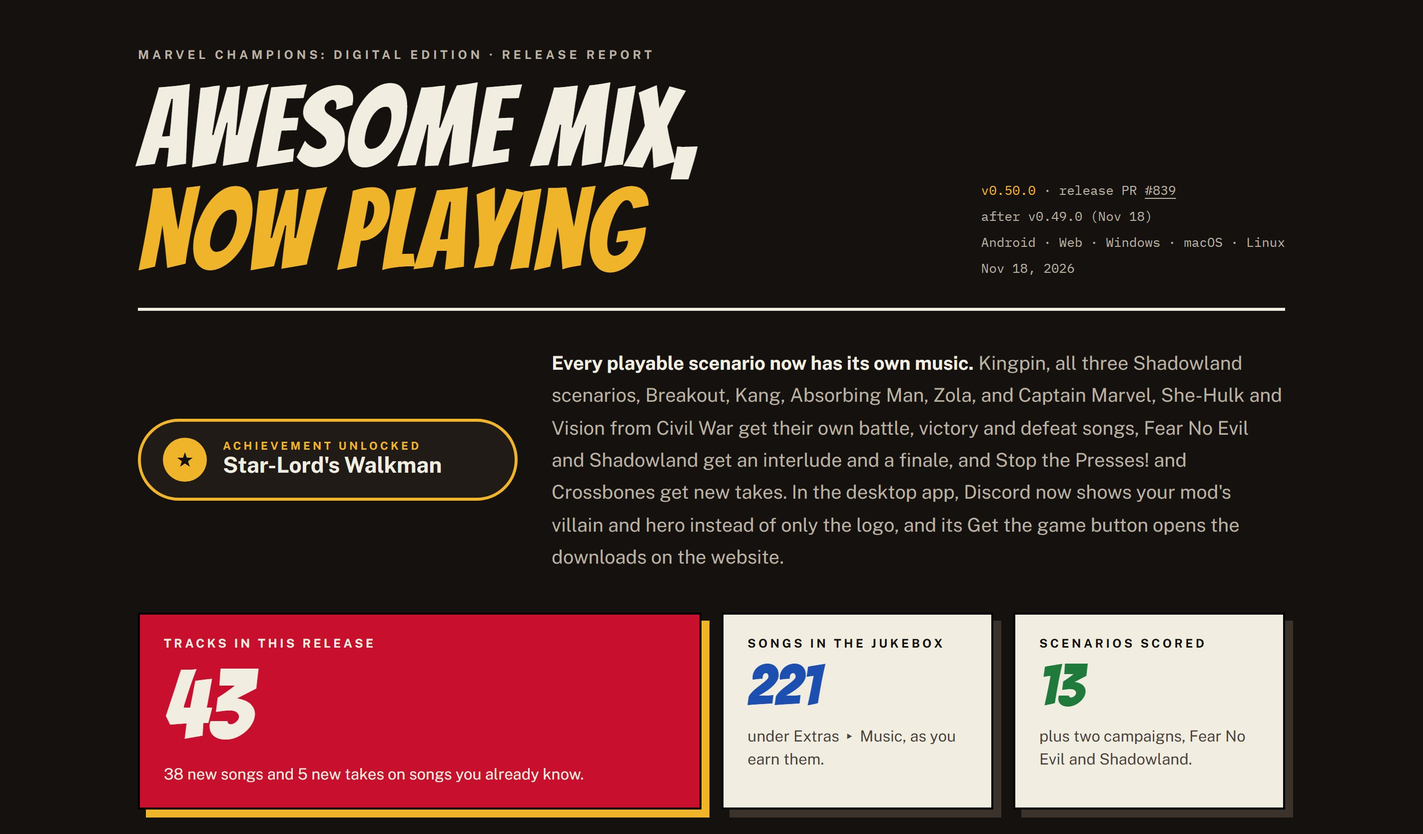
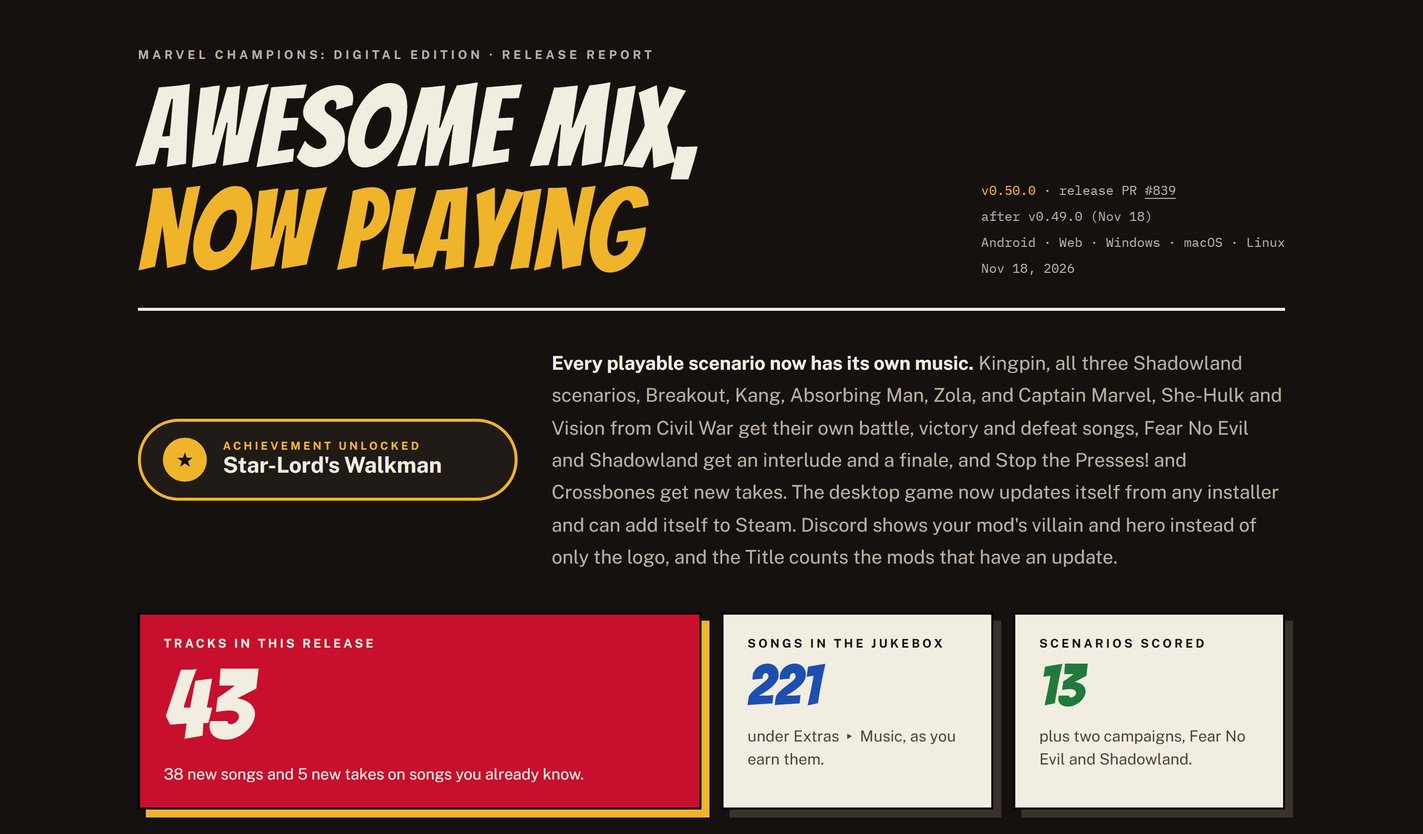
Add the in-game updater, Add to Steam and the mod update badge to the v0.50.0 report

Changed region(s): [[0.375, 0.5608, 0.875, 0.6854]]

diff --git a/packages/client/public/releases/v0.50.0/index.html b/packages/client/public/releases/v0.50.0/index.html
@@ -658,8 +658,8 @@
           <b>Every playable scenario now has its own music.</b> Kingpin, all three Shadowland scenarios, Breakout, Kang,
           Absorbing Man, Zola, and Captain Marvel, She-Hulk and Vision from Civil War get their own battle, victory and
           defeat songs, Fear No Evil and Shadowland get an interlude and a finale, and Stop the Presses! and Crossbones
-          get new takes. In the desktop app, Discord now shows your mod's villain and hero instead of only the logo, and
-          its Get the game button opens the downloads on the website.
+          get new takes. The desktop game now updates itself from any installer and can add itself to Steam. Discord
+          shows your mod's villain and hero instead of only the logo, and the Title counts the mods that have an update.
         </p>
       </section>
 
@@ -796,10 +796,111 @@
         </div>
       </div>
 
+      <!-- ============ UPDATER ============ -->
+      <div class="band gold">
+        <h2>Updates that install themselves</h2>
+        <div class="lab">Issues #843, #844 · PRs #847, #850</div>
+      </div>
+      <div class="pill feat">
+        <div class="star">★</div>
+        <div><small>Achievement unlocked</small><span>Quicksilver Delivery</span></div>
+      </div>
+      <p class="lead">
+        <b>The desktop game now updates itself, whichever installer you used.</b> When a new release is out, the Title's
+        update banner offers <b>Update</b>. The game downloads it in the background while you keep playing, tells you
+        when it's ready, and <b>Restart</b> puts you on the new version.
+      </p>
+      <div class="box">
+        <p>
+          <b>Heads up:</b> Update shows when a release newer than yours is out. v0.50.0 itself is still a download from
+          the website, and the release after it is the first one the game installs for you.
+        </p>
+      </div>
+      <div class="shots s2" style="margin-top: 24px">
+        <figure class="a">
+          <img
+            src="img/updater-ready.webp"
+            alt="The Title with The game has been updated: Restart to apply the new version, with Restart now and Later"
+            width="1280"
+            height="800"
+            loading="lazy"
+          />
+          <figcaption>The download is ready (999.0.0 is a test build's stand-in version)</figcaption>
+        </figure>
+        <figure class="a">
+          <img
+            src="img/updater-restart.webp"
+            alt="The Title's banner after Later: The game has been updated, Restart to apply the new version, with a Restart button"
+            width="1280"
+            height="800"
+            loading="lazy"
+          />
+          <figcaption>Pick Later and the Title keeps a Restart banner</figcaption>
+        </figure>
+      </div>
+      <div class="cols">
+        <div class="box">
+          <h3>Each installer, its own way</h3>
+          <ul class="ck">
+            <li>
+              <b>Windows:</b> the Setup .exe installs quietly and starts the game again. The .msi asks for an
+              administrator's permission first.
+            </li>
+            <li>
+              <b>Mac:</b> the new app is swapped in for the old one in a single step, on disks that allow it (APFS).
+            </li>
+            <li>
+              <b>Linux:</b> the AppImage is replaced where you keep it. A .deb or .rpm asks for an administrator's
+              password.
+            </li>
+            <li>
+              Every download is checked against the checksum GitHub lists before the game closes. If the install fails,
+              your old game starts again and the Title says so.
+            </li>
+            <li>Android and Steam script installs update the way they did before.</li>
+          </ul>
+        </div>
+        <div class="box">
+          <h3>Add to Steam</h3>
+          <p>
+            <b>Settings ▸ More ▸ Add to Steam</b> puts the game you have in your Steam library with its art, to play
+            from Steam and Big Picture. It runs the Install for Steam script in the background, without downloading
+            anything.
+          </p>
+          <p>
+            Steam is closed while its library is updated, and the panel tells you first. The row only shows when Steam
+            is installed and the game isn't in it yet, and on Linux it's for the AppImage. After that, updates go
+            through the Steam script.
+          </p>
+        </div>
+      </div>
+      <div class="shots s2" style="margin-top: 24px; max-width: 760px">
+        <figure class="a">
+          <img
+            src="img/steam-add-row.webp"
+            alt="Settings, the More tab, with the Add to Steam row and its Add button"
+            width="644"
+            height="872"
+            loading="lazy"
+          />
+          <figcaption>Settings ▸ More</figcaption>
+        </figure>
+        <figure class="a">
+          <img
+            src="img/steam-add-done.webp"
+            alt="Added to Steam: Start Steam, Marvel Champions Digital Edition is in your library"
+            width="644"
+            height="872"
+            loading="lazy"
+          />
+          <figcaption>Added to Steam</figcaption>
+        </figure>
+      </div>
+
       <!-- ============ DISCORD ============ -->
       <div class="band">
-        <h2>Your mods, on Discord</h2>
-        <div class="lab">Issue #840 · PR #841</div>
+        <h2>Your mods, on Discord and the Title</h2>
+        <div class="lab">Issues #840, #845 · PRs #841, #855</div>
       </div>
       <div class="pill feat">
         <div class="star">★</div>
@@ -870,6 +971,28 @@
             />
           </div>
           <figcaption>Gwenpool and Mephisto, from the Mod Store</figcaption>
+        </figure>
+      </div>
+
+      <div class="cols" style="margin-top: 24px; align-items: center">
+        <div class="box">
+          <h3>Updates for your mods</h3>
+          <p>
+            When a pack you installed has a newer version in the Mod Store, the Title's <b>Mod Store</b> button and its
+            storefront icon show a red badge with how many packs have an update. Update them in the store and the badge
+            clears.
+          </p>
+          <p>Issue #845 · PR #855</p>
+        </div>
+        <figure class="a">
+          <img
+            src="img/mod-update-badge.webp"
+            alt="The Title with a red 2 on the Mod Store button and on the storefront icon in the top row"
+            width="1280"
+            height="996"
+            loading="lazy"
+          />
+          <figcaption>Two installed packs with an update</figcaption>
         </figure>
       </div>
 
@@ -946,22 +1069,22 @@
       <section class="stats" aria-label="Code shipped since v0.49.0">
         <div class="tile">
           <h4>Pull requests</h4>
-          <div class="n">9</div>
+          <div class="n">12</div>
           <p>merged into main.</p>
         </div>
         <div class="tile">
           <h4>Files changed</h4>
-          <div class="n">75</div>
-          <p>across the client, the music and this report.</p>
+          <div class="n">121</div>
+          <p>across the client, the desktop app, the music and this report.</p>
         </div>
         <div class="tile">
           <h4>Lines added</h4>
-          <div class="n c-green">2,655</div>
-          <p>the Discord work, its tests, and this report.</p>
+          <div class="n c-green">5,890</div>
+          <p>the updater, Add to Steam, the Discord work, their tests and this report.</p>
         </div>
         <div class="tile">
           <h4>Lines removed</h4>
-          <div class="n c-red">845</div>
+          <div class="n c-red">960</div>
           <p>across the same pull requests.</p>
         </div>
       </section>

diff --git a/docs/screenshots/releases/v0.50.0/github-release-body.md b/docs/screenshots/releases/v0.50.0/github-release-body.md
@@ -1,22 +1,24 @@
 ## Awesome Mix, Now Playing
 
-Every playable scenario now has its own music. Kingpin, all three Shadowland scenarios (Shadows in the Night, Shadow Labyrinth and Heart of Shadow), Breakout, Kang, Absorbing Man, Zola, and Civil War's Captain Marvel, She-Hulk and Vision get their own battle, victory and defeat music, Fear No Evil and Shadowland get a campaign interlude and finale, and Stop the Presses! and Crossbones get new takes: 43 tracks in all, 38 of them new (#848, #849, #852, #854). In the desktop app, Discord Rich Presence now shows a Mod Store pack's own villain and hero instead of only the game's logo, and its Get the game button opens the downloads on the website (#840, #841). On a computer, the website's top now offers the Steam script beside the download (#842, #846). Thank you to Patatasaurio, Neptune (Typhon00) and PermaKarma, whose Gwenpool, Mephisto, Carnage and The Punisher packs it was checked with, and to every Mod Store creator. Thank you for playing!
+Every playable scenario now has its own music. Kingpin, all three Shadowland scenarios (Shadows in the Night, Shadow Labyrinth and Heart of Shadow), Breakout, Kang, Absorbing Man, Zola, and Civil War's Captain Marvel, She-Hulk and Vision get their own battle, victory and defeat music, Fear No Evil and Shadowland get a campaign interlude and finale, and Stop the Presses! and Crossbones get new takes: 43 tracks in all, 38 of them new (#848, #849, #852, #854). The desktop game now updates itself from inside the game, whichever installer you used: Update downloads the new release in the background and Restart puts you on it, starting with the release after this one (#843, #847). Settings ▸ More ▸ Add to Steam puts the game in your Steam library with its art (#844, #850). In the desktop app, Discord Rich Presence now shows a Mod Store pack's own villain and hero instead of only the game's logo, and its Get the game button opens the downloads on the website (#840, #841), and the Title's Mod Store button counts the installed packs that have an update (#845, #855). On a computer, the website's top now offers the Steam script beside the download (#842, #846). Thank you to Patatasaurio, Neptune (Typhon00) and PermaKarma, whose Gwenpool, Mephisto, Carnage and The Punisher packs it was checked with, and to every Mod Store creator. Thank you for playing!
 
-**[Read the full v0.50.0 report on the site ↗](https://champions-digital-game.com/releases/v0.50.0/)**: the new music scenario by scenario, where you'll hear it, your mods on Discord, the new downloads link, the Steam script button on the website and the thank-you wall.
+**[Read the full v0.50.0 report on the site ↗](https://champions-digital-game.com/releases/v0.50.0/)**: the new music scenario by scenario, where you'll hear it, updates that install themselves, Add to Steam, your mods on Discord, the mod update badge, the new downloads link, the Steam script button on the website and the thank-you wall.
 
 **[Lee el informe completo en español ↗](https://champions-digital-game.com/releases/v0.50.0/index.es.html)**
 
-![The numbers: 43 tracks in this release, 221 songs in the jukebox and 13 scenarios scored](https://raw.githubusercontent.com/quincarter/marvel-champions-digital-game/ce05bf75b04258c8956fc483d8ff42ea57848614/docs/screenshots/releases/v0.50.0/v0-50-0-release-01-the-numbers.jpg)
+![The numbers: 43 tracks in this release, 221 songs in the jukebox and 13 scenarios scored](https://raw.githubusercontent.com/quincarter/marvel-champions-digital-game/0000000000000000000000000000000000000000/docs/screenshots/releases/v0.50.0/v0-50-0-release-01-the-numbers.jpg)
 
-![Every scenario has a soundtrack: the jukebox playing Kingpin's battle track, on desktop and phone, and every new track by scenario, Civil War included](https://raw.githubusercontent.com/quincarter/marvel-champions-digital-game/ce05bf75b04258c8956fc483d8ff42ea57848614/docs/screenshots/releases/v0.50.0/v0-50-0-release-02-every-scenario-has-a-soundtrack.jpg)
+![Every scenario has a soundtrack: the jukebox playing Kingpin's battle track, on desktop and phone, and every new track by scenario, Civil War included](https://raw.githubusercontent.com/quincarter/marvel-champions-digital-game/0000000000000000000000000000000000000000/docs/screenshots/releases/v0.50.0/v0-50-0-release-02-every-scenario-has-a-soundtrack.jpg)
 
-![Your mods, on Discord: Carnage vs The Punisher in Discord, the website's downloads that Get the game opens, and Gwenpool and Mephisto from the Mod Store](https://raw.githubusercontent.com/quincarter/marvel-champions-digital-game/ce05bf75b04258c8956fc483d8ff42ea57848614/docs/screenshots/releases/v0.50.0/v0-50-0-release-03-your-mods-on-discord.jpg)
+![Updates that install themselves: The game has been updated with Restart now, the Restart banner, how each installer updates, and Settings ▸ More ▸ Add to Steam](https://raw.githubusercontent.com/quincarter/marvel-champions-digital-game/0000000000000000000000000000000000000000/docs/screenshots/releases/v0.50.0/v0-50-0-release-03-updates-that-install-themselves.jpg)
 
-![Also in v0.50.0: Discord posts link to the website's downloads, and the website's Steam script button](https://raw.githubusercontent.com/quincarter/marvel-champions-digital-game/ce05bf75b04258c8956fc483d8ff42ea57848614/docs/screenshots/releases/v0.50.0/v0-50-0-release-04-also-in-v0-50-0.jpg)
+![Your mods, on Discord and the Title: Carnage vs The Punisher in Discord, the website's downloads that Get the game opens, Gwenpool and Mephisto from the Mod Store, and the Mod Store button's update badge](https://raw.githubusercontent.com/quincarter/marvel-champions-digital-game/0000000000000000000000000000000000000000/docs/screenshots/releases/v0.50.0/v0-50-0-release-04-your-mods-on-discord-and-the-title.jpg)
 
-![Thank you to Patatasaurio, Neptune (Typhon00), PermaKarma and every Mod Store creator](https://raw.githubusercontent.com/quincarter/marvel-champions-digital-game/ce05bf75b04258c8956fc483d8ff42ea57848614/docs/screenshots/releases/v0.50.0/v0-50-0-release-05-thank-you.jpg)
+![Also in v0.50.0: Discord posts link to the website's downloads, and the website's Steam script button](https://raw.githubusercontent.com/quincarter/marvel-champions-digital-game/0000000000000000000000000000000000000000/docs/screenshots/releases/v0.50.0/v0-50-0-release-05-also-in-v0-50-0.jpg)
 
-![Code shipped since v0.49.0](https://raw.githubusercontent.com/quincarter/marvel-champions-digital-game/ce05bf75b04258c8956fc483d8ff42ea57848614/docs/screenshots/releases/v0.50.0/v0-50-0-release-06-code-shipped.jpg)
+![Thank you to Patatasaurio, Neptune (Typhon00), PermaKarma and every Mod Store creator](https://raw.githubusercontent.com/quincarter/marvel-champions-digital-game/0000000000000000000000000000000000000000/docs/screenshots/releases/v0.50.0/v0-50-0-release-06-thank-you.jpg)
+
+![Code shipped since v0.49.0](https://raw.githubusercontent.com/quincarter/marvel-champions-digital-game/0000000000000000000000000000000000000000/docs/screenshots/releases/v0.50.0/v0-50-0-release-07-code-shipped.jpg)
 
 ---
 
@@ -24,7 +26,10 @@ Every playable scenario now has its own music. Kingpin, all three Shadowland sce
 
 ### Added
 
+- The title screen's Mod Store button and storefront icon show how many installed mod packs have an update (#845).
 - The landing page's hero offers the Install for Steam script beside the download on a computer the release has one for, and the top bar does too on wide screens (#842).
+- A desktop game installed from the release's Windows .exe or .msi, Mac app or Linux AppImage updates itself from the update banner: it downloads in the background, says the game has been updated, and restarts into the new version (#843).
+- The desktop game has an Add to Steam button under Settings ▸ More: it runs the Install for Steam script on the game as it is and puts it in your Steam library with its art, and only shows when Steam is installed and the game isn't in it yet (#844).
 - The v0.50.0 release report has its own page on the site, at /releases/v0.50.0/
 
 ### Changed

diff --git a/docs/releases/es/v0.50.0.md b/docs/releases/es/v0.50.0.md
@@ -1,24 +1,29 @@
 ## Awesome Mix, sonando ahora
 
-Cada escenario jugable tiene ahora su propia música. Kingpin, los tres escenarios de Shadowland (Shadows in the Night, Shadow Labyrinth y Heart of Shadow), Breakout, Kang, Absorbing Man, Zola, y Captain Marvel, She-Hulk y Vision de Civil War tienen su propia música de batalla, de victoria y de derrota, Fear No Evil y Shadowland tienen un interludio y un final de campaña, y Stop the Presses! y Crossbones estrenan nuevas versiones: 43 temas en total, 38 de ellos nuevos (#848, #849, #852, #854). En la app de escritorio, la Rich Presence de Discord muestra ahora el villano y el héroe del propio paquete de la Mod Store en vez de solo el logo del juego, y su botón Get the game abre las descargas en el sitio web (#840, #841). En una computadora, la parte superior del sitio web ofrece ahora el script de Steam junto a la descarga (#842, #846). Gracias a Patatasaurio, a Neptune (Typhon00) y a PermaKarma, con cuyos paquetes de Gwenpool, Mephisto, Carnage y The Punisher se comprobó, y a cada creador de la Mod Store. ¡Gracias por jugar!
+Cada escenario jugable tiene ahora su propia música. Kingpin, los tres escenarios de Shadowland (Shadows in the Night, Shadow Labyrinth y Heart of Shadow), Breakout, Kang, Absorbing Man, Zola, y Captain Marvel, She-Hulk y Vision de Civil War tienen su propia música de batalla, de victoria y de derrota, Fear No Evil y Shadowland tienen un interludio y un final de campaña, y Stop the Presses! y Crossbones estrenan nuevas versiones: 43 temas en total, 38 de ellos nuevos (#848, #849, #852, #854). El juego de escritorio ahora se actualiza solo desde el propio juego, sea cual sea el instalador que usaste: Update descarga la versión nueva en segundo plano y Restart te pone en ella, a partir de la versión siguiente a esta (#843, #847). Settings ▸ More ▸ Add to Steam pone el juego en tu biblioteca de Steam con su arte (#844, #850). En la app de escritorio, la Rich Presence de Discord muestra ahora el villano y el héroe del propio paquete de la Mod Store en vez de solo el logo del juego, y su botón Get the game abre las descargas en el sitio web (#840, #841), y el botón Mod Store del Title cuenta los paquetes instalados que tienen una actualización (#845, #855). En una computadora, la parte superior del sitio web ofrece ahora el script de Steam junto a la descarga (#842, #846). Gracias a Patatasaurio, a Neptune (Typhon00) y a PermaKarma, con cuyos paquetes de Gwenpool, Mephisto, Carnage y The Punisher se comprobó, y a cada creador de la Mod Store. ¡Gracias por jugar!
 
-![Los números: 43 temas en esta versión, 221 canciones en la gramola y 13 escenarios con música](https://raw.githubusercontent.com/quincarter/marvel-champions-digital-game/ce05bf75b04258c8956fc483d8ff42ea57848614/docs/screenshots/releases/v0.50.0/v0-50-0-release-01-the-numbers.jpg)
+![Los números: 43 temas en esta versión, 221 canciones en la gramola y 13 escenarios con música](https://raw.githubusercontent.com/quincarter/marvel-champions-digital-game/0000000000000000000000000000000000000000/docs/screenshots/releases/v0.50.0/v0-50-0-release-01-the-numbers.jpg)
 
-![Cada escenario tiene banda sonora: la gramola con el tema de batalla de Kingpin, en escritorio y teléfono, y cada tema nuevo por escenario, Civil War incluida](https://raw.githubusercontent.com/quincarter/marvel-champions-digital-game/ce05bf75b04258c8956fc483d8ff42ea57848614/docs/screenshots/releases/v0.50.0/v0-50-0-release-02-every-scenario-has-a-soundtrack.jpg)
+![Cada escenario tiene banda sonora: la gramola con el tema de batalla de Kingpin, en escritorio y teléfono, y cada tema nuevo por escenario, Civil War incluida](https://raw.githubusercontent.com/quincarter/marvel-champions-digital-game/0000000000000000000000000000000000000000/docs/screenshots/releases/v0.50.0/v0-50-0-release-02-every-scenario-has-a-soundtrack.jpg)
 
-![Tus mods, en Discord: Carnage contra The Punisher en Discord, las descargas del sitio web que abre Get the game, y Gwenpool y Mephisto de la Mod Store](https://raw.githubusercontent.com/quincarter/marvel-champions-digital-game/ce05bf75b04258c8956fc483d8ff42ea57848614/docs/screenshots/releases/v0.50.0/v0-50-0-release-03-your-mods-on-discord.jpg)
+![Actualizaciones que se instalan solas: The game has been updated con Restart now, el aviso con Restart, cómo se actualiza cada instalador, y Settings ▸ More ▸ Add to Steam](https://raw.githubusercontent.com/quincarter/marvel-champions-digital-game/0000000000000000000000000000000000000000/docs/screenshots/releases/v0.50.0/v0-50-0-release-03-updates-that-install-themselves.jpg)
 
-![También en v0.50.0: las publicaciones de Discord enlazan a las descargas del sitio web, y el botón Steam script del sitio web](https://raw.githubusercontent.com/quincarter/marvel-champions-digital-game/ce05bf75b04258c8956fc483d8ff42ea57848614/docs/screenshots/releases/v0.50.0/v0-50-0-release-04-also-in-v0-50-0.jpg)
+![Tus mods, en Discord y en el Title: Carnage contra The Punisher en Discord, las descargas del sitio web que abre Get the game, Gwenpool y Mephisto de la Mod Store, y la insignia de actualizaciones del botón Mod Store](https://raw.githubusercontent.com/quincarter/marvel-champions-digital-game/0000000000000000000000000000000000000000/docs/screenshots/releases/v0.50.0/v0-50-0-release-04-your-mods-on-discord-and-the-title.jpg)
 
-![Gracias a Patatasaurio, a Neptune (Typhon00), a PermaKarma y a cada creador de la Mod Store](https://raw.githubusercontent.com/quincarter/marvel-champions-digital-game/ce05bf75b04258c8956fc483d8ff42ea57848614/docs/screenshots/releases/v0.50.0/v0-50-0-release-05-thank-you.jpg)
+![También en v0.50.0: las publicaciones de Discord enlazan a las descargas del sitio web, y el botón Steam script del sitio web](https://raw.githubusercontent.com/quincarter/marvel-champions-digital-game/0000000000000000000000000000000000000000/docs/screenshots/releases/v0.50.0/v0-50-0-release-05-also-in-v0-50-0.jpg)
 
-![Código publicado desde v0.49.0](https://raw.githubusercontent.com/quincarter/marvel-champions-digital-game/ce05bf75b04258c8956fc483d8ff42ea57848614/docs/screenshots/releases/v0.50.0/v0-50-0-release-06-code-shipped.jpg)
+![Gracias a Patatasaurio, a Neptune (Typhon00), a PermaKarma y a cada creador de la Mod Store](https://raw.githubusercontent.com/quincarter/marvel-champions-digital-game/0000000000000000000000000000000000000000/docs/screenshots/releases/v0.50.0/v0-50-0-release-06-thank-you.jpg)
+
+![Código publicado desde v0.49.0](https://raw.githubusercontent.com/quincarter/marvel-champions-digital-game/0000000000000000000000000000000000000000/docs/screenshots/releases/v0.50.0/v0-50-0-release-07-code-shipped.jpg)
 
 ## [v0.50.0] - 2026-11-18
 
 ### Added
 
+- El botón Mod Store del Title y su icono de tienda muestran cuántos paquetes de mods instalados tienen una actualización (#845).
 - La portada del sitio web ofrece el script Install for Steam junto a la descarga en una computadora para la que la versión tiene uno, y la barra superior también en pantallas anchas (#842).
+- Un juego de escritorio instalado desde el .exe o .msi de Windows, la app de Mac o el AppImage de Linux de la versión se actualiza solo desde el aviso de actualización: descarga en segundo plano, dice que el juego se ha actualizado y se reinicia en la versión nueva (#843).
+- El juego de escritorio tiene un botón Add to Steam en Settings ▸ More: ejecuta el script Install for Steam sobre el juego tal como está y lo pone en tu biblioteca de Steam con su arte, y solo aparece cuando Steam está instalado y el juego aún no está en él (#844).
 - El informe de la versión v0.50.0 tiene su propia página en el sitio, en /releases/v0.50.0/
 
 ### Changed

diff --git a/docs/screenshots/releases/v0.50.0/release-notes-header.md b/docs/screenshots/releases/v0.50.0/release-notes-header.md
@@ -1,19 +1,21 @@
 ## Awesome Mix, Now Playing
 
-Every playable scenario now has its own music. Kingpin, all three Shadowland scenarios (Shadows in the Night, Shadow Labyrinth and Heart of Shadow), Breakout, Kang, Absorbing Man, Zola, and Civil War's Captain Marvel, She-Hulk and Vision get their own battle, victory and defeat music, Fear No Evil and Shadowland get a campaign interlude and finale, and Stop the Presses! and Crossbones get new takes: 43 tracks in all, 38 of them new (#848, #849, #852, #854). In the desktop app, Discord Rich Presence now shows a Mod Store pack's own villain and hero instead of only the game's logo, and its Get the game button opens the downloads on the website (#840, #841). On a computer, the website's top now offers the Steam script beside the download (#842, #846). Thank you to Patatasaurio, Neptune (Typhon00) and PermaKarma, whose Gwenpool, Mephisto, Carnage and The Punisher packs it was checked with, and to every Mod Store creator. Thank you for playing!
+Every playable scenario now has its own music. Kingpin, all three Shadowland scenarios (Shadows in the Night, Shadow Labyrinth and Heart of Shadow), Breakout, Kang, Absorbing Man, Zola, and Civil War's Captain Marvel, She-Hulk and Vision get their own battle, victory and defeat music, Fear No Evil and Shadowland get a campaign interlude and finale, and Stop the Presses! and Crossbones get new takes: 43 tracks in all, 38 of them new (#848, #849, #852, #854). The desktop game now updates itself from inside the game, whichever installer you used: Update downloads the new release in the background and Restart puts you on it, starting with the release after this one (#843, #847). Settings ▸ More ▸ Add to Steam puts the game in your Steam library with its art (#844, #850). In the desktop app, Discord Rich Presence now shows a Mod Store pack's own villain and hero instead of only the game's logo, and its Get the game button opens the downloads on the website (#840, #841), and the Title's Mod Store button counts the installed packs that have an update (#845, #855). On a computer, the website's top now offers the Steam script beside the download (#842, #846). Thank you to Patatasaurio, Neptune (Typhon00) and PermaKarma, whose Gwenpool, Mephisto, Carnage and The Punisher packs it was checked with, and to every Mod Store creator. Thank you for playing!
 
-**[Read the full v0.50.0 report on the site ↗](https://champions-digital-game.com/releases/v0.50.0/)**: the new music scenario by scenario, where you'll hear it, your mods on Discord, the new downloads link, the Steam script button on the website and the thank-you wall.
+**[Read the full v0.50.0 report on the site ↗](https://champions-digital-game.com/releases/v0.50.0/)**: the new music scenario by scenario, where you'll hear it, updates that install themselves, Add to Steam, your mods on Discord, the mod update badge, the new downloads link, the Steam script button on the website and the thank-you wall.
 
 **[Lee el informe completo en español ↗](https://champions-digital-game.com/releases/v0.50.0/index.es.html)**
 
-![The numbers: 43 tracks in this release, 221 songs in the jukebox and 13 scenarios scored](https://raw.githubusercontent.com/quincarter/marvel-champions-digital-game/ce05bf75b04258c8956fc483d8ff42ea57848614/docs/screenshots/releases/v0.50.0/v0-50-0-release-01-the-numbers.jpg)
+![The numbers: 43 tracks in this release, 221 songs in the jukebox and 13 scenarios scored](https://raw.githubusercontent.com/quincarter/marvel-champions-digital-game/0000000000000000000000000000000000000000/docs/screenshots/releases/v0.50.0/v0-50-0-release-01-the-numbers.jpg)
 
-![Every scenario has a soundtrack: the jukebox playing Kingpin's battle track, on desktop and phone, and every new track by scenario, Civil War included](https://raw.githubusercontent.com/quincarter/marvel-champions-digital-game/ce05bf75b04258c8956fc483d8ff42ea57848614/docs/screenshots/releases/v0.50.0/v0-50-0-release-02-every-scenario-has-a-soundtrack.jpg)
+![Every scenario has a soundtrack: the jukebox playing Kingpin's battle track, on desktop and phone, and every new track by scenario, Civil War included](https://raw.githubusercontent.com/quincarter/marvel-champions-digital-game/0000000000000000000000000000000000000000/docs/screenshots/releases/v0.50.0/v0-50-0-release-02-every-scenario-has-a-soundtrack.jpg)
 
-![Your mods, on Discord: Carnage vs The Punisher in Discord, the website's downloads that Get the game opens, and Gwenpool and Mephisto from the Mod Store](https://raw.githubusercontent.com/quincarter/marvel-champions-digital-game/ce05bf75b04258c8956fc483d8ff42ea57848614/docs/screenshots/releases/v0.50.0/v0-50-0-release-03-your-mods-on-discord.jpg)
+![Updates that install themselves: The game has been updated with Restart now, the Restart banner, how each installer updates, and Settings ▸ More ▸ Add to Steam](https://raw.githubusercontent.com/quincarter/marvel-champions-digital-game/0000000000000000000000000000000000000000/docs/screenshots/releases/v0.50.0/v0-50-0-release-03-updates-that-install-themselves.jpg)
 
-![Also in v0.50.0: Discord posts link to the website's downloads, and the website's Steam script button](https://raw.githubusercontent.com/quincarter/marvel-champions-digital-game/ce05bf75b04258c8956fc483d8ff42ea57848614/docs/screenshots/releases/v0.50.0/v0-50-0-release-04-also-in-v0-50-0.jpg)
+![Your mods, on Discord and the Title: Carnage vs The Punisher in Discord, the website's downloads that Get the game opens, Gwenpool and Mephisto from the Mod Store, and the Mod Store button's update badge](https://raw.githubusercontent.com/quincarter/marvel-champions-digital-game/0000000000000000000000000000000000000000/docs/screenshots/releases/v0.50.0/v0-50-0-release-04-your-mods-on-discord-and-the-title.jpg)
 
-![Thank you to Patatasaurio, Neptune (Typhon00), PermaKarma and every Mod Store creator](https://raw.githubusercontent.com/quincarter/marvel-champions-digital-game/ce05bf75b04258c8956fc483d8ff42ea57848614/docs/screenshots/releases/v0.50.0/v0-50-0-release-05-thank-you.jpg)
+![Also in v0.50.0: Discord posts link to the website's downloads, and the website's Steam script button](https://raw.githubusercontent.com/quincarter/marvel-champions-digital-game/0000000000000000000000000000000000000000/docs/screenshots/releases/v0.50.0/v0-50-0-release-05-also-in-v0-50-0.jpg)
 
-![Code shipped since v0.49.0](https://raw.githubusercontent.com/quincarter/marvel-champions-digital-game/ce05bf75b04258c8956fc483d8ff42ea57848614/docs/screenshots/releases/v0.50.0/v0-50-0-release-06-code-shipped.jpg)
+![Thank you to Patatasaurio, Neptune (Typhon00), PermaKarma and every Mod Store creator](https://raw.githubusercontent.com/quincarter/marvel-champions-digital-game/0000000000000000000000000000000000000000/docs/screenshots/releases/v0.50.0/v0-50-0-release-06-thank-you.jpg)
+
+![Code shipped since v0.49.0](https://raw.githubusercontent.com/quincarter/marvel-champions-digital-game/0000000000000000000000000000000000000000/docs/screenshots/releases/v0.50.0/v0-50-0-release-07-code-shipped.jpg)

diff --git a/docs/screenshots/releases/v0.50.0/discord-post.md b/docs/screenshots/releases/v0.50.0/discord-post.md
@@ -5,9 +5,12 @@ Every playable scenario now has its own music.
 🎵 **43 tracks of new music**: Kingpin, all three Shadowland scenarios, Breakout, Kang, Absorbing Man, Zola, and Civil War's Captain Marvel, She-Hulk and Vision get their own battle, victory and defeat songs. Fear No Evil and Shadowland get a campaign interlude and finale.
 🔁 **New takes**: Stop the Presses! and Crossbones get remade tracks, and Stop the Presses! gets its victory track, Extra! Extra!
 📻 **The jukebox**: each song opens in Extras ▸ Music as you earn it in your games. That's 221 songs in all.
+⚡ **Updates that install themselves**: the desktop game now updates from inside the game, whichever installer you used. Update downloads it while you play, Restart puts you on it. It starts with the release after this one, so grab v0.50.0 from the website.
+🚂 **Add to Steam**: Settings ▸ More ▸ Add to Steam puts the game in your Steam library with its art.
 🎮 **Your mods on Discord**: in the desktop app, a Mod Store pack now shows its own villain and hero on your Discord profile instead of only the logo.
+🔴 **Mod updates**: the Title's Mod Store button shows how many of your mods have an update.
 🔗 **Get the game**: the button on your Discord profile now opens the downloads on the website.
-🚂 **Steam script**: on a computer, the website's top offers the Steam script right beside the download.
+🌐 **Steam script on the website**: on a computer, the website's top offers the Steam script right beside the download.
 
 Thank you, Patatasaurio, Neptune (Typhon00) and PermaKarma, whose Gwenpool, Mephisto, Carnage and The Punisher packs the Discord fix was checked with, and every Mod Store creator!
 
@@ -21,9 +24,12 @@ Cada escenario jugable tiene ahora su propia música.
 🎵 **43 temas de música nueva**: Kingpin, los tres escenarios de Shadowland, Breakout, Kang, Absorbing Man, Zola, y Captain Marvel, She-Hulk y Vision de Civil War tienen sus propias canciones de batalla, de victoria y de derrota. Fear No Evil y Shadowland tienen un interludio y un final de campaña.
 🔁 **Nuevas versiones**: Stop the Presses! y Crossbones estrenan temas rehechos, y Stop the Presses! recibe su tema de victoria, Extra! Extra!
 📻 **La gramola**: cada canción se abre en Extras ▸ Music a medida que la ganas en tus partidas. Son 221 canciones en total.
+⚡ **Actualizaciones que se instalan solas**: el juego de escritorio ahora se actualiza desde el propio juego, sea cual sea el instalador que usaste. Update la descarga mientras juegas y Restart te pone en ella. Empieza con la versión siguiente a esta, así que descarga v0.50.0 desde el sitio web.
+🚂 **Add to Steam**: Settings ▸ More ▸ Add to Steam pone el juego en tu biblioteca de Steam con su arte.
 🎮 **Tus mods en Discord**: en la app de escritorio, un paquete de la Mod Store muestra ahora su propio villano y su propio héroe en tu perfil de Discord en vez de solo el logo.
+🔴 **Actualizaciones de mods**: el botón Mod Store del Title muestra cuántos de tus mods tienen una actualización.
 🔗 **Get the game**: el botón de tu perfil de Discord abre ahora las descargas en el sitio web.
-🚂 **Script de Steam**: en una computadora, la parte superior del sitio web ofrece el script de Steam justo al lado de la descarga.
+🌐 **Script de Steam en el sitio web**: en una computadora, la parte superior del sitio web ofrece el script de Steam justo al lado de la descarga.
 
 ¡Gracias, Patatasaurio, Neptune (Typhon00) y PermaKarma, con cuyos paquetes de Gwenpool, Mephisto, Carnage y The Punisher se comprobó la corrección de Discord, y a cada creador de la Mod Store!
 
